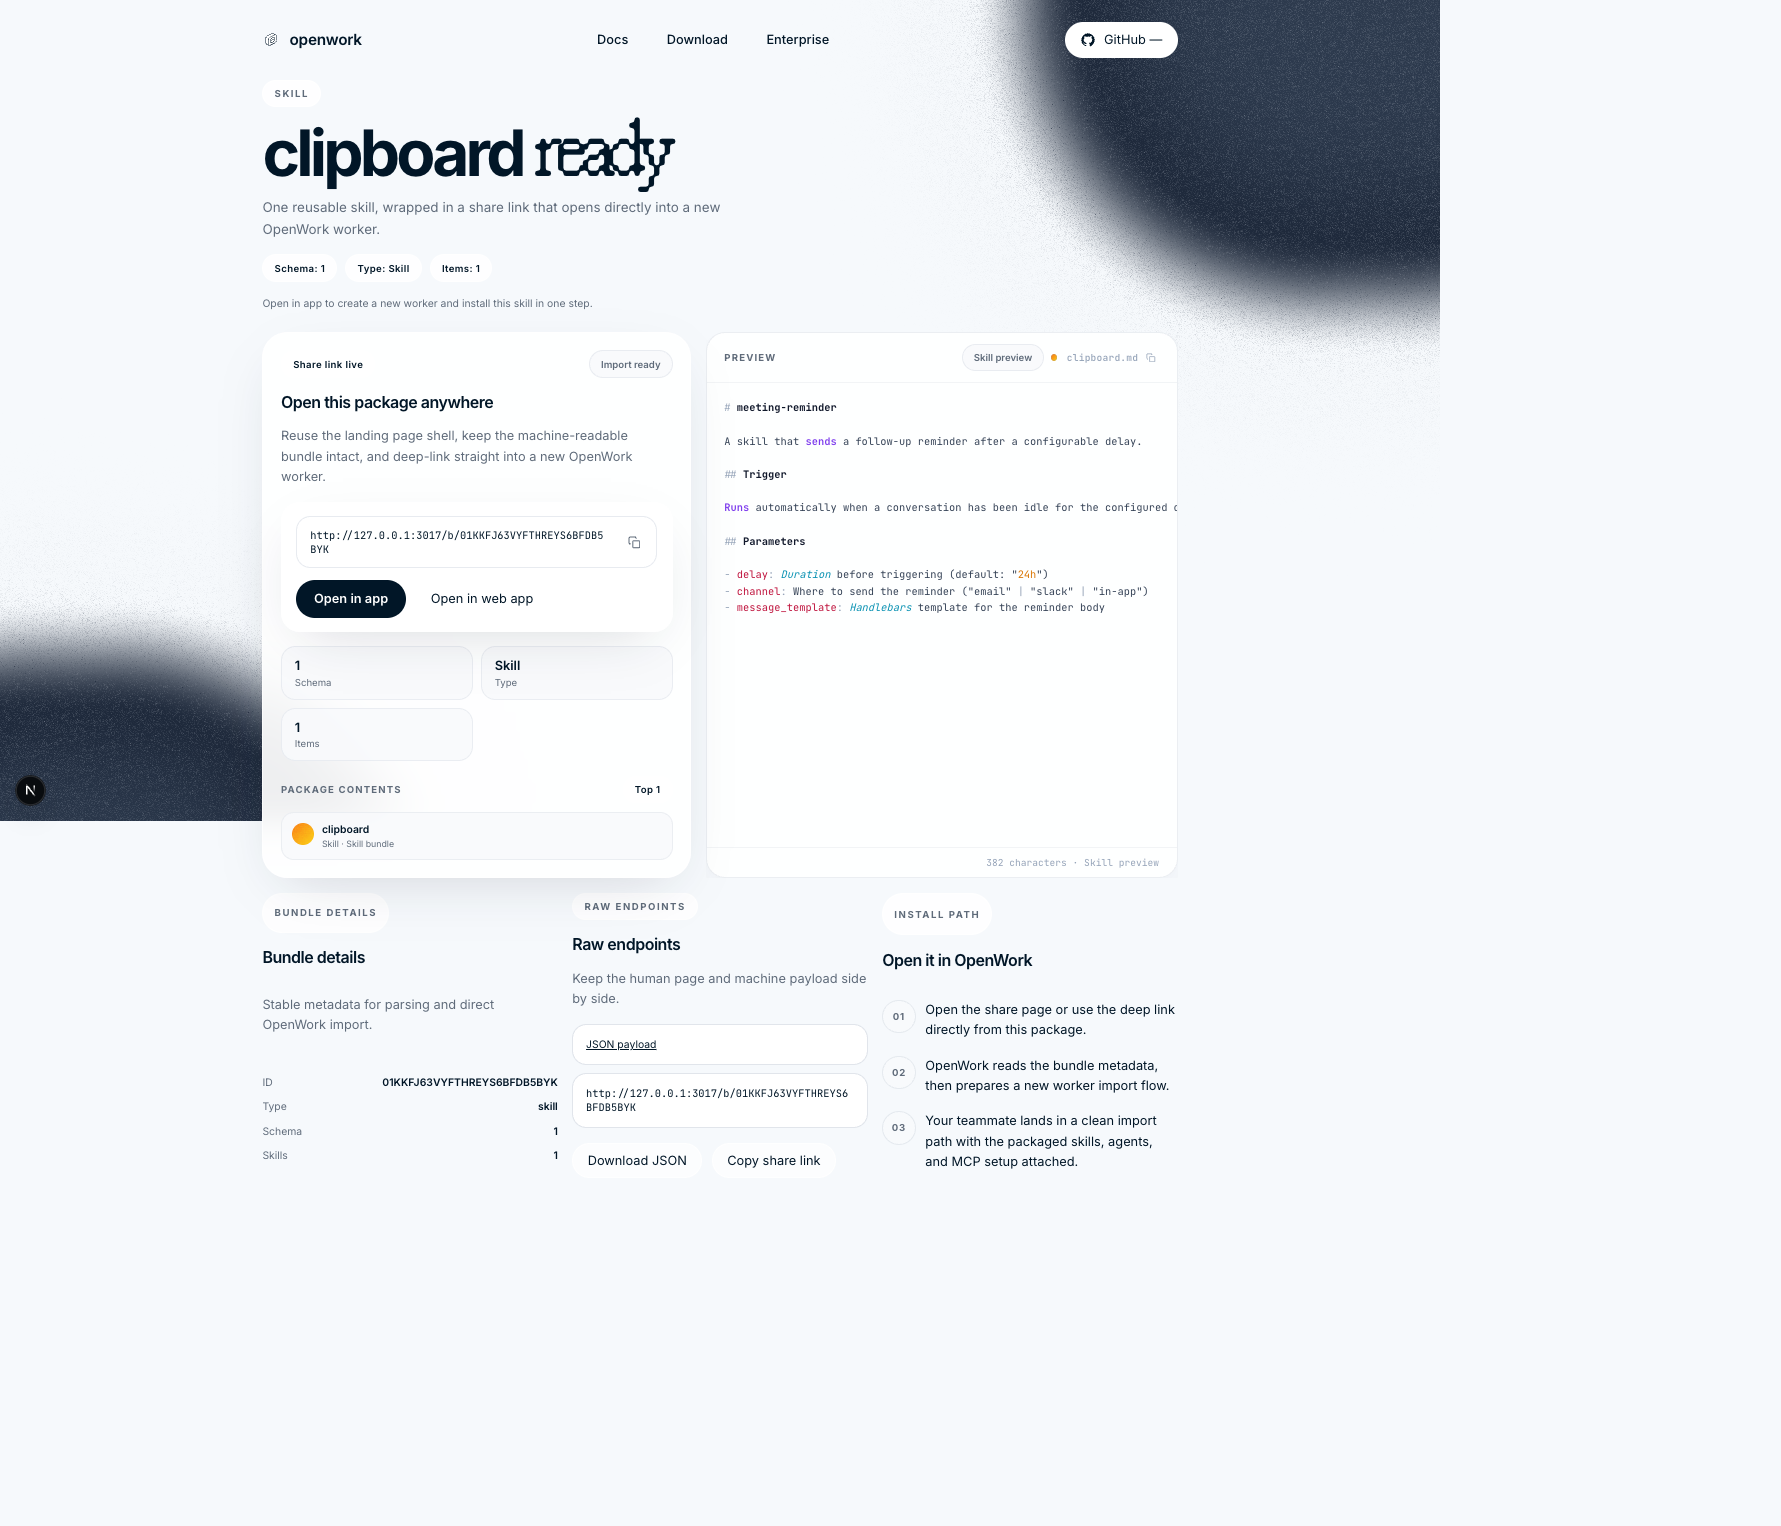
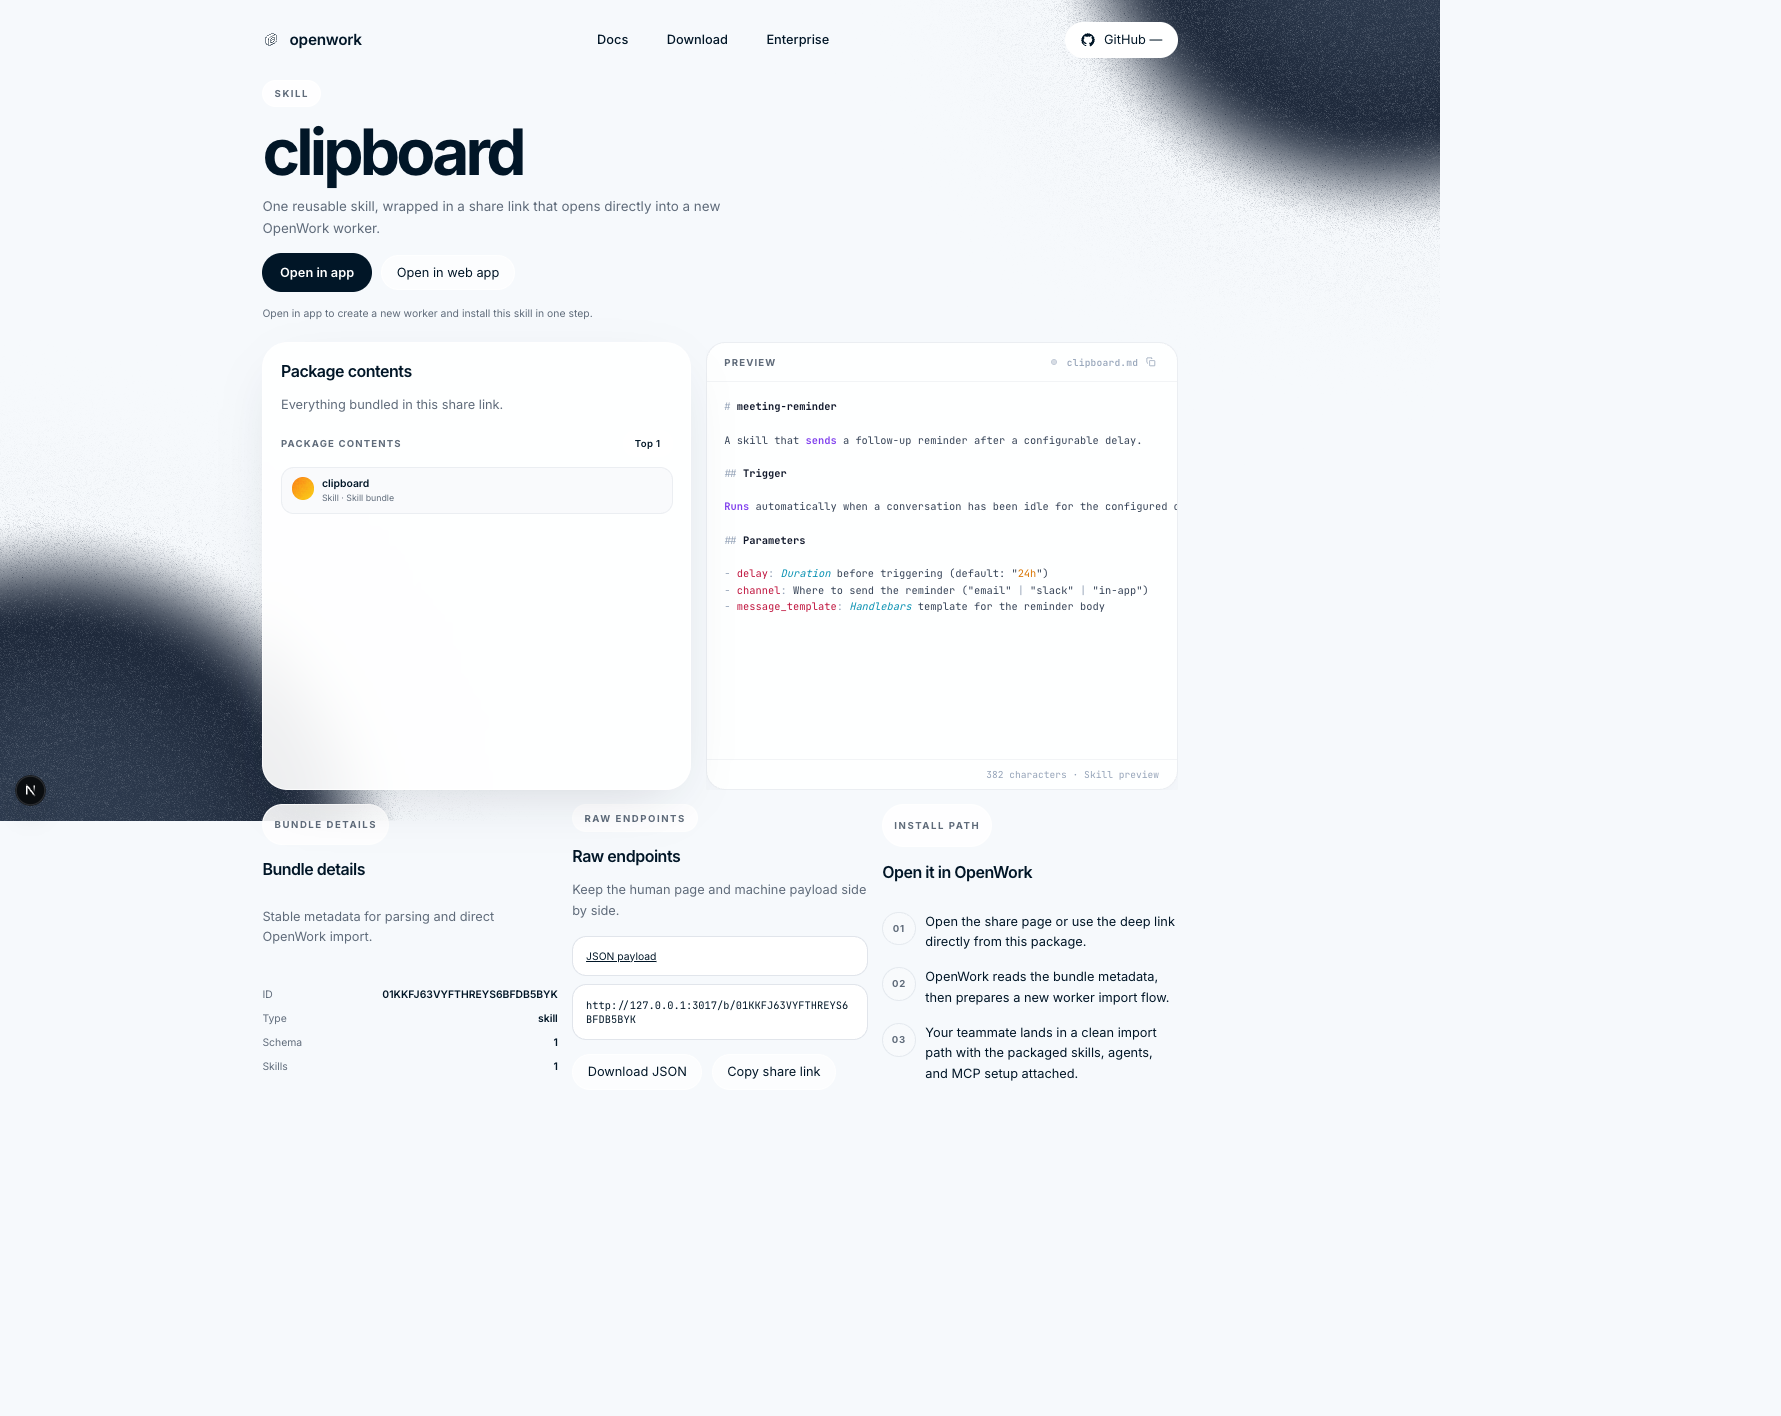
feat(share): refine OG preview layout and bundle page components

diff --git a/services/openwork-share/components/share-bundle-page.tsx b/services/openwork-share/components/share-bundle-page.tsx
@@ -41,11 +41,6 @@ export default function ShareBundlePage(props: BundlePageProps) {
   const [copyState, setCopyState] = useState<"ready" | "copied" | "failed">("ready");
   const [previewCopied, setPreviewCopied] = useState(false);
 
-  const bundleSummary = [
-    { label: "Schema", value: props.schemaVersion || "-" },
-    { label: "Type", value: props.typeLabel || "Package" },
-    { label: "Items", value: props.items?.length || 1 }
-  ];
   const shareUrl = props.shareUrl || "";
   const openInAppUrl = props.openInAppDeepLink || "#";
   const openInWebUrl = props.openInWebAppUrl || "#";
@@ -121,65 +116,26 @@ export default function ShareBundlePage(props: BundlePageProps) {
               <div className="hero-copy">
                 <span className="eyebrow">{props.typeLabel}</span>
                 <h1>
-                  {title} <em>ready</em>
+                  {title}
                 </h1>
                 <p className="hero-body">{description}</p>
-                <div className="hero-proof-strip">
-                  {bundleSummary.map((item) => (
-                    <span className="surface-chip" key={item.label}>
-                      {item.label}: {item.value}
-                    </span>
-                  ))}
+                <div className="button-row">
+                  <a className="button-primary" href={openInAppUrl}>
+                    Open in app
+                  </a>
+                  <a className="button-secondary" href={openInWebUrl} target="_blank" rel="noreferrer">
+                    Open in web app
+                  </a>
                 </div>
                 <p className="hero-note">{props.installHint}</p>
               </div>
 
               <div className="share-cards-grid share-bundle-grid">
                 <article className="package-card share-card surface-soft">
-                  <div className="package-card-header">
-                    <span className="surface-chip">Share link live</span>
-                    <div className="selection-badge">Import ready</div>
-                  </div>
-
-                  <h2 className="simple-app-title">Open this package anywhere</h2>
+                  <h2 className="simple-app-title">Package contents</h2>
                   <p className="simple-app-copy">
-                    Reuse the landing page shell, keep the machine-readable bundle intact, and deep-link straight into a new OpenWork worker.
+                    Everything bundled in this share link.
                   </p>
-
-                  <div className="share-link-bar">
-                    <div className="share-link-bar-main">
-                      <div className={`share-link-row${copyState === "copied" ? " is-copied" : ""}`}>
-                        <div className="share-link-inline mono">{shareUrl}</div>
-                        <button
-                          className={`copy-icon-button${copyState === "copied" ? " is-copied" : ""}`}
-                          type="button"
-                          onClick={() => void copyShareUrl()}
-                          title="Copy share link"
-                          aria-label="Copy share link"
-                        >
-                          {copyState === "copied" ? <CheckIcon /> : <CopyIcon />}
-                        </button>
-                      </div>
-
-                      <div className="button-row">
-                        <a className="button-primary" href={openInAppUrl}>
-                          Open in app
-                        </a>
-                        <a className="button-secondary" href={openInWebUrl} target="_blank" rel="noreferrer">
-                          Open in web app
-                        </a>
-                      </div>
-                    </div>
-                  </div>
-
-                  <div className="summary-grid">
-                    {bundleSummary.map((item) => (
-                      <div className="summary-stat" key={item.label}>
-                        <strong className="summary-stat-value">{item.value}</strong>
-                        <span className="summary-stat-label">{item.label}</span>
-                      </div>
-                    ))}
-                  </div>
 
                   <div className="included-section">
                     <div className="included-section-header">
@@ -223,9 +179,8 @@ export default function ShareBundlePage(props: BundlePageProps) {
                       <span className="preview-eyebrow">Preview</span>
 
                       <div className="preview-header-actions">
-                        {props.previewLabel ? <span className="preview-state">{props.previewLabel}</span> : null}
                         <span className="preview-filename">
-                          <span className={`preview-filename-dot ${toneClass({ tone: props.previewTone })}`} />
+                          <span className="preview-filename-dot dot-pending" />
                           {props.previewFilename || "bundle.json"}
                           <button
                             type="button"

diff --git a/services/openwork-share/server/_lib/render-og-image.ts b/services/openwork-share/server/_lib/render-og-image.ts
@@ -111,7 +111,7 @@ function renderPreviewPanel(preview: { filename: string; text: string; tone: str
       <text x="28" y="42" fill="#5f6b7a" font-family="Inter, Arial, sans-serif" font-size="12" font-weight="700" letter-spacing="1.8">PREVIEW</text>
       <text x="28" y="408" fill="#5f6b7a" font-family="Inter, Arial, sans-serif" font-size="11">${escapeSvgText(truncateLine(preview.label, 44))}</text>
       <text x="28" y="430" fill="#94a3b8" font-family="JetBrains Mono, Menlo, monospace" font-size="11">${escapeSvgText(truncateLine(preview.filename, 38))}</text>
-      <rect x="330" y="26" width="10" height="10" rx="5" fill="${toneFill(preview.tone)}" />
+      <rect x="330" y="26" width="10" height="10" rx="5" fill="#94a3b8" />
       <text x="346" y="35" fill="#94a3b8" font-family="JetBrains Mono, Menlo, monospace" font-size="11">${escapeSvgText(truncateLine(preview.filename, 16))}</text>
       ${lines
         .map((line, index) => {
@@ -225,7 +225,7 @@ export function renderRootOgImage(): string {
       tone: "skill",
       text: `# meeting-reminder\n\nA skill that sends a follow-up reminder after a configurable delay.\n\n## Trigger\n\nRuns automatically when a conversation has been idle for the configured duration.\n\n- delay: Duration before triggering\n- channel: Send via email, slack, or in-app`,
     },
-    kicker: "One drop. One share link.",
+    kicker: "",
   });
 }
 
@@ -247,6 +247,6 @@ export function renderBundleOgImage({ id, rawJson }: { id: string; rawJson: stri
       { label: "commands", value: counts.commandCount },
     ],
     preview,
-    kicker: "Open directly in a new worker.",
+    kicker: "",
   });
 }
